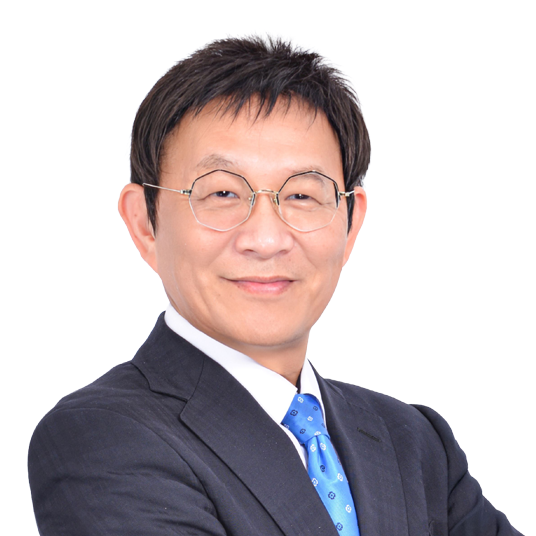
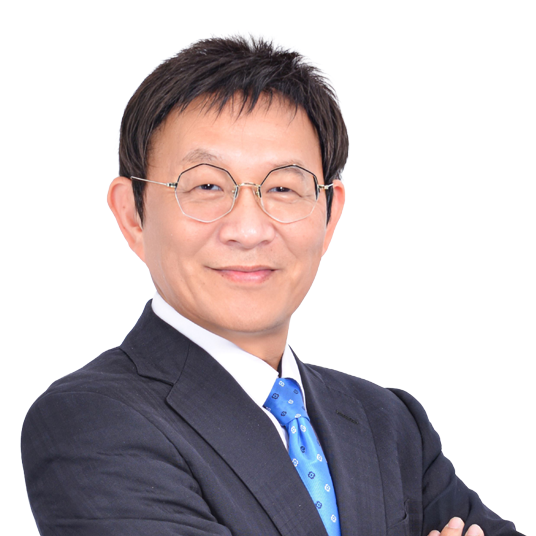
Update Huang Zhengzhong portrait

diff --git a/index.html b/index.html
@@ -141,7 +141,7 @@
       <article class="speaker_card"><img src="images/host3.png" alt="劉佳雨"><div class="speaker_copy"><span>專題演講</span><h3>劉佳雨</h3><p class="speaker_short">東方匯理投信投資部基金經理</p><p class="speaker_full">東方匯理投信投資部<br>基金經理</p></div></article>
       <article class="speaker_card"><img src="images/host4.png" alt="王之杰"><div class="speaker_copy"><span>焦點對談主持人</span><h3>王之杰</h3><p class="speaker_short">今周刊研發長</p><p class="speaker_full">今周刊研發長</p></div></article>
       <article class="speaker_card"><img src="images/host5.png" alt="高仙桂"><div class="speaker_copy"><span>開場演講／焦點對談</span><h3>高仙桂</h3><p class="speaker_short">國發會政務副主委…</p><p class="speaker_full">中華民國國家發展委員會<br>政務副主任委員</p></div></article>
-      <article class="speaker_card"><img src="images/host6-1.png" alt="黃正忠"><div class="speaker_copy"><span>專題演講／焦點對談</span><h3>黃正忠</h3><p class="speaker_short">KPMG 永續服務亞太區負責人…</p><p class="speaker_full">安侯永續發展顧問董事總經理<br>KPMG 永續服務亞太區負責人</p></div></article>
+      <article class="speaker_card"><img src="images/host6-1.png?v=20260823-v2" alt="黃正忠"><div class="speaker_copy"><span>專題演講／焦點對談</span><h3>黃正忠</h3><p class="speaker_short">KPMG 永續服務亞太區負責人…</p><p class="speaker_full">安侯永續發展顧問董事總經理<br>KPMG 永續服務亞太區負責人</p></div></article>
       <article class="speaker_card"><img src="images/host7-1.png" alt="吳澤欣"><div class="speaker_copy"><span>焦點對談</span><h3>吳澤欣</h3><p class="speaker_short">華碩電腦股份有限公司永續長</p><p class="speaker_full">華碩電腦股份有限公司<br>永續長</p></div></article>
     </div>
     <div class="full_lineup">
